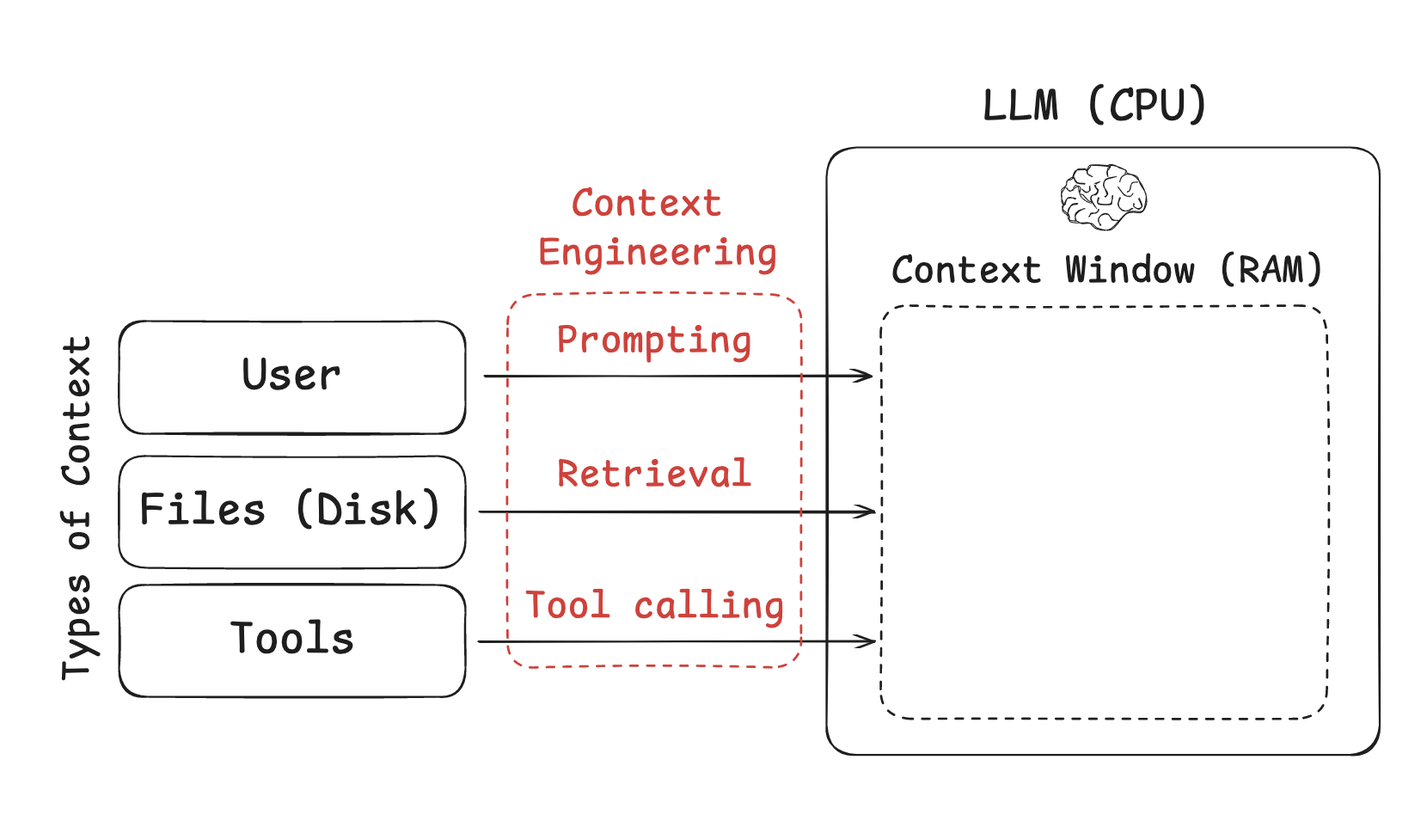
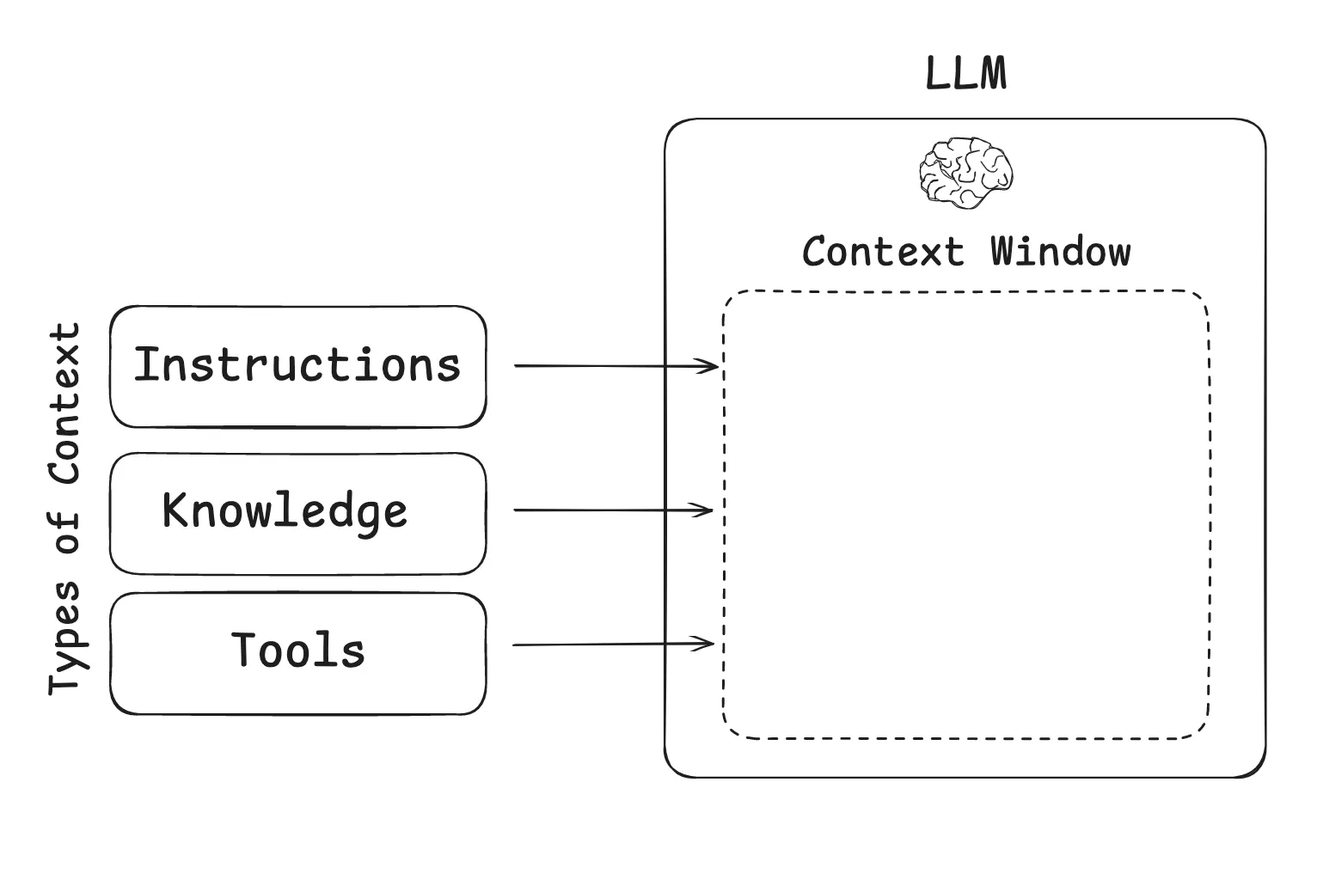
Update

diff --git a/_posts/2025-06-22-context_engineering.md b/_posts/2025-06-22-context_engineering.md
@@ -2,21 +2,29 @@
 layout: post
 comments: false
 title:  "Context Engineering for Agents"
-excerpt: "Patterns for managing the context needed for agents to perform their tasks."
+excerpt: "Patterns for managing agent context."
 date:   2025-06-23 
 ---
 
 [Lance Martin](https://x.com/RLanceMartin)
 
+### TL;DR 
+
+Agents need context (e.g., instructions, external knowledge, tool feedback) to perform tasks. Context engineering is the art and science of filling the context window with just the right information at each step of an agent’s trajectory. In this post, I break down some common strategies — write, select, compress, and isolate — for agent context engineering by reviewing various popular agents and papers.
+
+<figure>
+<img src="/assets/context_eng_overview.png" width="90%">
+<figcaption>
+</figcaption>
+</figure>
+
 ### Context Engineering
 
-As Andrej Karpathy puts it, LLMs are like a [new kind of operating system](https://www.youtube.com/watch?si=-aKY-x57ILAmWTdw&t=620&v=LCEmiRjPEtQ&feature=youtu.be). The LLM is like the CPU and its [context window](https://docs.anthropic.com/en/docs/build-with-claude/context-windows) is like RAM, representing a “working memory” for the model. 
+### 
 
-Context enters an LLM in several ways, including prompts (e.g., user instructions), retrieval (e.g., documents), and tool calls (e.g., APIs).
+As Andrej Karpathy puts it, LLMs are like a [new kind of operating system](https://www.youtube.com/watch?si=-aKY-x57ILAmWTdw&t=620&v=LCEmiRjPEtQ&feature=youtu.be). The LLM is like the CPU and its [context window](https://docs.anthropic.com/en/docs/build-with-claude/context-windows) is like the RAM, serving as the model’s working memory. Just like RAM, the LLM context window has limited [capacity](https://lilianweng.github.io/posts/2023-06-23-agent/) to handle various sources of context. And just as an operating system curates what fits into a CPU’s RAM, “context engineering” plays a similar role. [Karpathy summarizes this well](https://x.com/karpathy/status/1937902205765607626):
 
-Just like RAM, the LLM context window has limited [“communication bandwidth](https://lilianweng.github.io/posts/2023-06-23-agent/)” to handle these various sources of context.
-
-And just as an operating system curates what fits into a CPU’s RAM, we can think about “context engineering” the [art and science](https://x.com/karpathy/status/1937902205765607626) of filling the context window with the information needed [to perform a task](https://x.com/tobi/status/1935533422589399127).
+> [Context engineering is the] ”…delicate art and science of filling the context window with just the right information for the next step.”
 
 <figure>
 <img src="/assets/context_types.png" width="90%">
@@ -24,15 +32,15 @@ And just as an operating system curates what fits into a CPU’s RAM, we can thi
 </figcaption>
 </figure>
 
-### The Rise of Context Engineering
+What are the types of context that we need to manage when building LLM applications? Context engineering is an [umbrella](https://x.com/dexhorthy/status/1933283008863482067) that applies across a few different context types:
 
-Context engineering is an [umbrella discipline](https://x.com/dexhorthy/status/1933283008863482067) that captures a few different focus areas:
+- **Instructions** – prompts, memories, few‑shot examples, tool descriptions, etc
+- **Knowledge** – facts, memories, etc
+- **Tools** – feedback from tool calls
 
-- **Instructions** – prompts (see: [prompt engineering](https://www.promptingguide.ai/)), memories, few‑shot examples
-- **Knowledge** – retrieval or memories to extend the model’s world‑knowledge (see: [RAG](https://github.com/langchain-ai/rag-from-scratch))
-- **Tool feedback** – context flowing in from the environment via tools
+### Context Engineering for Agents
 
-As LLMs get better at tool calling, [agents](https://www.anthropic.com/engineering/building-effective-agents) are now feasible. Agents interleave [LLM and tool calls](https://www.anthropic.com/engineering/building-effective-agents) for [long-running tasks](https://blog.langchain.com/introducing-ambient-agents/), and motivate the need for engineering across all three types of context.
+This year, interest in [agents](https://www.anthropic.com/engineering/building-effective-agents) has grown tremendously as LLMs get better at [reasoning](https://platform.openai.com/docs/guides/reasoning?api-mode=responses) and [tool calling](https://www.anthropic.com/engineering/building-effective-agents). [Agents](https://www.anthropic.com/engineering/building-effective-agents) interleave [LLM invocations and tool calls](https://www.anthropic.com/engineering/building-effective-agents), often for [long-running tasks](https://blog.langchain.com/introducing-ambient-agents/).
 
 <figure>
 <img src="/assets/agent_flow.png" width="90%">
@@ -40,7 +48,14 @@ As LLMs get better at tool calling, [agents](https://www.anthropic.com/engineeri
 </figcaption>
 </figure>
 
-[Cognition](https://cognition.ai/blog/dont-build-multi-agents) called out the importance of context engineering when building agents:
+However, long-running tasks and accumulating feedback from tool calls mean that agents often utilize a large number of tokens. This can cause numerous problems: it can [exceed the size of the context window](https://cognition.ai/blog/kevin-32b), balloon cost / latency, or degrade agent performance. Drew Breunig [nicely outlined](https://www.dbreunig.com/2025/06/22/how-contexts-fail-and-how-to-fix-them.html) a number of specific ways that longer context can cause perform problems, including: 
+
+- [Context Poisoning: When a hallucination makes it into the context](https://www.dbreunig.com/2025/06/22/how-contexts-fail-and-how-to-fix-them.html#context-poisoning)
+- [Context Distraction: When the context overwhelms the training](https://www.dbreunig.com/2025/06/22/how-contexts-fail-and-how-to-fix-them.html#context-distraction)
+- [Context Confusion: When superfluous context influences the response](https://www.dbreunig.com/2025/06/22/how-contexts-fail-and-how-to-fix-them.html#context-confusion)
+- [Context Clash: When parts of the context disagree](https://www.dbreunig.com/2025/06/22/how-contexts-fail-and-how-to-fix-them.html#context-clash)
+
+With this in mind, [Cognition](https://cognition.ai/blog/dont-build-multi-agents) called out the importance of context engineering when building agents:
 
 > *“Context engineering” … is effectively the #1 job of engineers building AI agents.*
 > 
@@ -50,23 +65,7 @@ As LLMs get better at tool calling, [agents](https://www.anthropic.com/engineeri
 > *Agents often engage in conversations spanning hundreds of turns, requiring careful context management strategies.*
 > 
 
-This post is aims to break down some common strategies — **compress**, **persist**, and **isolate —** for agent context engineering.
-
-### Context Engineering for Agents
-
-The agent context is populated with feedback from tool calls, which can [exceed the size of the context window](https://cognition.ai/blog/kevin-32b) and balloon the cost / latency. 
-
-<figure>
-<img src="/assets/tool_context.png" width="90%">
-<figcaption>
-</figcaption>
-</figure>
-
-I’ve been bitten by this many times. One incarnation of a [deep research agent](https://github.com/langchain-ai/open_deep_research) that I built used token-heavy search API tool calls, resulting in > 500k token and several dollars per run! 
-
-Long context may also degrade agent performance. [Google](https://research.google/blog/chain-of-agents-large-language-models-collaborating-on-long-context-tasks/#:~:text=example%2C%20Gemini%20is%20able%20to,architecture%20that%20underlies%20most%20LLMs) and [Percy Liang’s group](https://arxiv.org/abs/2307.03172) have described different types of “[context degradation syndrome](https://jameshoward.us/2024/11/26/context-degradation-syndrome-when-large-language-models-lose-the-plot)” since a long context can limit an LLMs ability to recall facts or follow instructions.  
-
-There are many ways to combat this problem, which I group into 3 buckets and describe below: compressing, persisting, and isolating context. 
+In this post, I break down some common strategies — **write, select, compress, and isolate —** for agent context engineering by reviewing various popular agents and papers.
 
 <figure>
 <img src="/assets/context_eng_overview.png" width="90%">
@@ -74,17 +73,71 @@ There are many ways to combat this problem, which I group into 3 buckets and des
 </figcaption>
 </figure>
 
+### Write Context
+
+*Writing context means saving it outside the context window to help an agent perform a task.*
+
+**Scratchpads**
+
+When humans solve tasks, we take notes and remember things for future, related tasks. Agents are also gaining these capabilities! Note-taking via a “[scratchpad](https://www.anthropic.com/engineering/claude-think-tool)” is one approach to persist information while an agent is performing a task. The central idea is to save information outside of the context window so that it’s available to the agent on-demand. [Anthropic’s multi-agent researcher](https://www.anthropic.com/engineering/built-multi-agent-research-system) illustrates a clear example of this: 
+
+> *The LeadResearcher begins by thinking through the approach and saving its plan to Memory to persist the context, since if the context window exceeds 200,000 tokens it will be truncated and it is important to retain the plan.*
+> 
+
+It’s worth noting that this scratchpad can be implemented in a few different ways. It could be a [tool call](https://www.anthropic.com/engineering/claude-think-tool) that [writes to a file](https://github.com/modelcontextprotocol/servers/tree/main/src/filesystem). It could also just be a field in a runtime [state object](https://langchain-ai.github.io/langgraph/concepts/low_level/#state) that persists during the session. In either case, the intuition is clear: scratchpads let agents save useful information during a session to help them accomplish tasks.
+
+**Memories**
+
+Scratchpads help agents solve a task within a given session, but sometimes agents benefit from remembering things across *many* sessions! [Reflexion](https://arxiv.org/abs/2303.11366) introduced the idea of reflection following each agent turn and re-using these self-generated hints. [Generative Agents](https://ar5iv.labs.arxiv.org/html/2304.03442) created memories synthesized periodically from collections of past agent feedback.
+
+These concepts made their way into popular products like [ChatGPT](https://help.openai.com/en/articles/8590148-memory-faq), [Cursor](https://forum.cursor.com/t/0-51-memories-feature/98509), and [Windsurf](https://docs.windsurf.com/windsurf/cascade/memories), which all have mechanisms to auto-generate long-term memories based on user-agent interactions.
+
+<figure>
+<img src="/assets/llm_write_memory.png" width="90%">
+<figcaption>
+</figcaption>
+</figure>
+
+### Select Context
+
+*Selecting context means pulling it into the context window to help an agent perform a task.*
+
+**Scratchpad**
+
+The mechanism for selecting context from a scratchpad depends upon how the scratchpad is implemented. If it’s a [tool](https://www.anthropic.com/engineering/claude-think-tool), then an agent can simply read it by making a tool call. If it’s part of the agent’s runtime state, then the developer can choose what parts of state to expose to an agent each step. This provides a fine-grained level of control for exposing context to an agent.
+
+**Memories**
+
+If agents have the ability to save memories, they also need the ability to select memories relevant to the task they are performing. This can be useful for a few reasons. Agents might select few-shot examples ([episodic](https://langchain-ai.github.io/langgraph/concepts/memory/#memory-types) [memories](https://arxiv.org/pdf/2309.02427)) for examples of desired behavior, instructions ([procedural](https://langchain-ai.github.io/langgraph/concepts/memory/#memory-types) [memories](https://arxiv.org/pdf/2309.02427)) to steer behavior, or facts ([semantic](https://langchain-ai.github.io/langgraph/concepts/memory/#memory-types) [memories](https://arxiv.org/pdf/2309.02427)) give the agent task-relevant context.
+
+<figure>
+<img src="/assets/memory_types.png" width="90%">
+<figcaption>
+</figcaption>
+</figure>
+
+One challenge is ensure that relevant memories are selected. Some popular agents simply use a narrow set of files to store memories. For example, many code agent use “rules” files to save instructions (”procedural” memories) or, in some cases, examples (”episodic” memories). Claude Code uses [`CLAUDE.md`](http://CLAUDE.md). [Cursor](https://docs.cursor.com/context/rules) and [Windsurf](https://windsurf.com/editor/directory) use rules files. These are always pulled into context.
+
+But, if an agent is storing a larger [collection](https://langchain-ai.github.io/langgraph/concepts/memory/#collection) of facts and / or relationships ([semantic](https://langchain-ai.github.io/langgraph/concepts/memory/#memory-types) memories), selection is harder. [ChatGPT](https://help.openai.com/en/articles/8590148-memory-faq) is a good example of this. At the AIEngineer World’s Fair, [Simon Willison shared](https://simonwillison.net/2025/Jun/6/six-months-in-llms/) a good example of memory selection gone wrong: ChatGPT fetched his location and injected it into an image that he requested. This type of erroneous memory retrieval can make users feel like the context winder “*no longer belongs to them*”! Use of embeddings and / or [knowledge](https://arxiv.org/html/2501.13956v1#:~:text=In%20Zep%2C%20memory%20is%20powered,subgraph%2C%20and%20a%20community%20subgraph) [graphs](https://neo4j.com/blog/developer/graphiti-knowledge-graph-memory/#:~:text=changes%20since%20updates%20can%20trigger,and%20holistic%20memory%20for%20agentic) for indexing of memories have been used to assist with selection.
+
+**Tools**
+
+Agents use tools, but can become overloaded if they are provided with too many. This is often because the tool descriptions can overlap, causing model confusion about which tool to use. One approach is to apply RAG to tool descriptions in order to fetch the most relevant tools for a task based upon semantic similarity, an idea that Drew Breunig calls “[tool loadout](https://www.dbreunig.com/2025/06/26/how-to-fix-your-context.html).” Some [recent papers](https://arxiv.org/abs/2505.03275) have shown that this improve tool selection accuracy by 3-fold.
+
+**Knowledge**
+
+[RAG](https://github.com/langchain-ai/rag-from-scratch) (retrieval augmented generation) is an extremely rich topic. Code agents are some of the best examples of agentic RAG in large-scale production. [In practice, RAG is can be a central context engineering challenge](https://x.com/_mohansolo/status/1899630246862966837). Varun from Windsurf captures some of these challenges well:
+
+> *Indexing code ≠ context retrieval … [We are doing indexing & embedding search … [with] AST parsing code and chunking along semantically meaningful boundaries … embedding search becomes unreliable as a retrieval heuristic as the size of the codebase grows … we must rely on a combination of techniques like grep/file search, knowledge graph based retrieval, and … a re-ranking step where [context] is ranked in order of relevance.*
+>
+
 ### Compressing Context
 
-Compressing context involves keeping only the highest-value tokens at each turn.
+*Compressing context involves retaining only the tokens required to perform a task.*
 
 **Context Summarization**
 
-Agent interactions can span [hundreds of turns](https://www.anthropic.com/engineering/built-multi-agent-research-system) and may have token-heavy tool calls. Context summarization is one common way to manage this. 
-
-If you’ve used Claude Code, you’ve seen this in action. Claude Code runs “[auto-compact](https://docs.anthropic.com/en/docs/claude-code/costs)” after you exceed 95% of the context window.
-
-Summarization can be used in different places, such as the [full agent trajectory](https://python.langchain.com/api_reference/langchain/memory/langchain.memory.summary.ConversationSummaryMemory.html) with methods such as [recursive](https://arxiv.org/pdf/2308.15022#:~:text=the%20retrieved%20utterances%20capture%20the,based%203) or [hierarchical](https://alignment.anthropic.com/2025/summarization-for-monitoring/#:~:text=We%20addressed%20these%20issues%20by,of%20our%20computer%20use%20capability) summarization.
+Agent interactions can span [hundreds of turns](https://www.anthropic.com/engineering/built-multi-agent-research-system) and use token-heavy tool calls. Summarization is one common way to manage these challenges. If you’ve used Claude Code, you’ve seen this in action. Claude Code runs “[auto-compact](https://docs.anthropic.com/en/docs/claude-code/costs)” after you exceed 95% of the context window and it will summarize the full trajectory of user-agent interactions. This type of compression across an [agent trajectory](https://langchain-ai.github.io/langgraph/concepts/memory/#manage-short-term-memory) can use various strategies such as [recursive](https://arxiv.org/pdf/2308.15022#:~:text=the%20retrieved%20utterances%20capture%20the,based%203) or [hierarchical](https://alignment.anthropic.com/2025/summarization-for-monitoring/#:~:text=We%20addressed%20these%20issues%20by,of%20our%20computer%20use%20capability) summarization.
 
 <figure>
 <img src="/assets/context_curation.png" width="90%">
@@ -92,63 +145,19 @@ Summarization can be used in different places, such as the [full agent trajector
 </figcaption>
 </figure>
 
-It's also common to [summarize](https://github.com/langchain-ai/open_deep_research/blob/e5a5160a398a3699857d00d8569cb7fd0ac48a4f/src/open_deep_research/utils.py#L1407)  tool call feedback (e.g., a token-heavy search tool) or specific steps (e.g., [Anthropic’s multi-agent researcher](https://www.anthropic.com/engineering/built-multi-agent-research-system) applies summarization on completed work phases).
+It can also be useful to [add summarization](https://github.com/langchain-ai/open_deep_research/blob/e5a5160a398a3699857d00d8569cb7fd0ac48a4f/src/open_deep_research/utils.py#L1407) at points in an agent’s trajectory. For example, it can be used to post-process certain tool calls (e.g., token-heavy search tools). As a second example, [Cognition](https://cognition.ai/blog/dont-build-multi-agents#a-theory-of-building-long-running-agents) mentioned summarization at agent-agent boundaries to knowledge hand-off. They also the challenge if specific events or decisions to be captured. They use a fine-tuned model for this in Devin, which underscores how much work can go into this step.
 
-[Cognition](https://cognition.ai/blog/dont-build-multi-agents#a-theory-of-building-long-running-agents) called out that summarization can be tricky if specific events or decisions from agent trajectories are needed. They use a fine-tuned model for this in Devin, which underscores how much work can go into refining this step. 
+**Context Trimming**
 
-### Persisting Context
-
-Persisting context involves systems to store, save, and retrieve context over time. 
-
-**Storing context**
-
-Files are a simple way to store context. Many popular agents use this: Claude Code uses [`CLAUDE.md`](http://CLAUDE.md). [Cursor](https://docs.cursor.com/context/rules) and [Windsurf](https://windsurf.com/editor/directory) use rules files, and some plugins (e.g., [Cursor Memory Bank](https://forum.cursor.com/t/managing-chat-context-in-cursor-ide-for-large-repositories-what-s-working-for-you/76391/2)) / [MCP servers](https://github.com/modelcontextprotocol/servers/tree/main/src/filesystem) manage collections of memory files.
-
-Some agents need to store information that can’t be easily be captured in a few files. For example, we may want to store large [collections](https://langchain-ai.github.io/langgraph/concepts/memory/#collection) of facts and / or relationships. A few tools emerged to support this and showcase some common patterns. 
-
-[Letta](https://docs.letta.com/concepts/memgpt), [Mem0](https://mem0.ai/research), and [LangGraph](https://langchain-ai.github.io/langgraph/concepts/memory/#long-term-memory) / [Mem](https://langchain-ai.github.io/langmem/) store embedded documents. [Zep](https://arxiv.org/html/2501.13956v1#:~:text=In%20Zep%2C%20memory%20is%20powered,subgraph%2C%20and%20a%20community%20subgraph) and [Neo4J](https://neo4j.com/blog/developer/graphiti-knowledge-graph-memory/#:~:text=changes%20since%20updates%20can%20trigger,and%20holistic%20memory%20for%20agentic) use knowledge graphs for continuous / temporal indexing of facts or relationships.
-
-**Saving context**
-
-Claude Code entrusts the user to create / update memories (e.g., the `#` shortcut). But there are many cases where we want agents to autonomously create / update memories. 
-
-The [Reflexion](https://arxiv.org/abs/2303.11366) paper introduced the idea of reflection following each agent turn and re-using these self-generated hints. [Generative Agents](https://ar5iv.labs.arxiv.org/html/2304.03442) created memories as summaries synthesized from collections of past feedback.
-
-These concepts made their way into popular products like [ChatGPT,](https://help.openai.com/en/articles/8590148-memory-faq) [Cursor](https://docs.cursor.com/context/rules#memories), and [Windsurf](https://docs.windsurf.com/windsurf/cascade/memories), which all have mechanisms to auto-generate memories based on user-agent interactions. 
-
-<figure>
-<img src="/assets/email_agent.png" width="90%">
-<figcaption>
-</figcaption>
-</figure>
-
-Memory creation can also be done at specific points in an agent's trajectory. One pattern I like: update memories based upon user feedback.
-
-For example, human-in-the-loop review of tool calls is a good way to build confidence in your agent. But if you pair this with memory updating, then the agent can learn from your feedback over time. My [email assistant](https://github.com/langchain-ai/agents-from-scratch) does this with file based memory.
-
-**Retrieving context**
-
-The simplest approach is just to pull all memories into the agent’s context window. For example, Claude Code just reads all [`CLAUDE.md`](http://CLAUDE.md) files into context at the start of each session. In my [email assistant](https://github.com/langchain-ai/agents-from-scratch), I always load a set memories that provide email triage and response instructions into context.
-
-But, mechanisms to fetch select memories are important if the collection is large. The store will help determine the approach (e.g., embedding-based search or graph retrieval). 
-
-[In practice this is a deep topic](https://x.com/_mohansolo/status/1899630246862966837). Retrieval can be tricky. For example, [Generative Agents](https://ar5iv.labs.arxiv.org/html/2304.03442) scored memories on similarity, recency, and importance. [Simon Willison shared](https://simonwillison.net/2025/Jun/6/six-months-in-llms/) an example of memory retrieval gone wrong. GPT-4o injected location into an image based upon his memories, which was not desired. Poor memory retrieval can make users feel like the context window "doesn't belong to them"!
+Whereas summarization typically using an LLM to distill the most relevant pieces of context, trimming can often filter or, as Drew Breunig points out, “[prune](https://www.dbreunig.com/2025/06/26/how-to-fix-your-context.html)” context. This can use heuristics like removing [older messages](https://python.langchain.com/docs/how_to/trim_messages/) from a message list. Drew’s post also mentions [Provence](https://arxiv.org/abs/2501.16214), an fine-tuned LLM utility that performs context pruning for Question-Answering.
 
 ### Isolating Context
 
-Isolating context involves approaches to partition it across agents or environments.   
-
-**Context Schema**
-
-Oftentimes, [messages](https://python.langchain.com/docs/concepts/messages/) are used to structure agent context. Tool feedback is appended to a message list. The full list is then passed to the LLM at each agent turn. 
-
-The problem is that a list can get bloated with token-heavy tool calls. A structured runtime state - defined via a [schema](https://langchain-ai.github.io/langgraph/concepts/low_level/#schema) (e.g., a [Pydantic](https://docs.pydantic.dev/latest/concepts/models/) model) - can often be more effective. 
-
-Then, you can better control what the LLM sees at each agent turn. For example, in one version of a deep research agent, my schema both `messages` and [`sections`](https://github.com/langchain-ai/open_deep_research/blob/e5a5160a398a3699857d00d8569cb7fd0ac48a4f/src/open_deep_research/multi_agent.py#L428). `messages` is passed to the LLM at each turn, but I isolate token-heavy sections in `sections` and fetch them selectively.  
+*Isolating context involves splitting it up to help an agent perform a task.*
 
 **Multi-agent**
 
-One popular approach is to split context across sub-agents. A motivation for the OpenAI [Swarm](https://github.com/openai/swarm) library was “[separation of concerns](https://openai.github.io/openai-agents-python/ref/agent/)”, where a team of agents can handle sub-tasks and each agent has its own instructions and context window. 
+One of the most popular and intuitive ways to isolate context is to split it across sub-agents. A motivation for the OpenAI [Swarm](https://github.com/openai/swarm) library was “[separation of concerns](https://openai.github.io/openai-agents-python/ref/agent/)”, where a team of agents can handle sub-tasks. Each agent has a specific set of tools, instructions, and its own context window.
 
 <figure>
 <img src="/assets/multi_agent.png" width="90%">
@@ -156,20 +165,16 @@ One popular approach is to split context across sub-agents. A motivation for the
 </figcaption>
 </figure>
 
-Anthropic’s [multi-agent researcher](https://www.anthropic.com/engineering/built-multi-agent-research-system) makes a clear case for this: multi-agent with isolated context outperformed single-agent by 90.2%, largely due to token usage. As the blog said: 
+Anthropic’s [multi-agent researcher](https://www.anthropic.com/engineering/built-multi-agent-research-system) makes a clear case for the benefit of this: many agents with isolated contexts outperformed single-agent by 90.2%, largely because each subagent context window can be allocated to a more narrow sub-task. As the blog said: 
 
 > *[Subagents operate] in parallel with their own context windows, exploring different aspects of the question simultaneously.*
 > 
 
-The problems with multi-agent include token use (e.g., [15× more tokens](https://www.anthropic.com/engineering/built-multi-agent-research-system) than chat), the need for careful [prompting](https://www.anthropic.com/engineering/built-multi-agent-research-system) and [context](https://cognition.ai/blog/dont-build-multi-agents) for sub-agent planning, and sub-agent coordination. Cognition argues [against](https://cognition.ai/blog/dont-build-multi-agents) multi-agent for these reasons.
-
-I’ve also been bitten by this: one iteration of my deep research agent had a team of agents write sections of the report. Sometimes the final report was disjointed because the agents did not communicate with one another while writing.
-
-One way to reconcile this is to ensure the task is parallelizable. A subtle point is that Anthropic’s deep research multi-agent system applied parallelization to *research.* This is easier than *writing*, which requires tight cohesion across the sections of a report to achieve strong overall flow.
+Of course, the challenge with multi-agent include token use (e.g., [15× more tokens](https://www.anthropic.com/engineering/built-multi-agent-research-system) than chat), the need for careful [prompt engineering](https://www.anthropic.com/engineering/built-multi-agent-research-system) to plan sub-agent work, and coordination of sub-agents. 
 
 **Context Isolation with Environments**
 
-HuggingFace’s [deep researcher](https://huggingface.co/blog/open-deep-research#:~:text=From%20building%20,it%20can%20still%20use%20it) is another good example of context isolation. Most agents use [tool calling APIs](https://docs.anthropic.com/en/docs/agents-and-tools/tool-use/overview), which return JSON objects (arguments) that can be passed to tools (e.g., a search API) to get tool feedback (e.g., search results).
+HuggingFace’s [deep researcher](https://huggingface.co/blog/open-deep-research#:~:text=From%20building%20,it%20can%20still%20use%20it) shows another interesting example of context isolation. Most agents use [tool calling APIs](https://docs.anthropic.com/en/docs/agents-and-tools/tool-use/overview), which return JSON objects (tool arguments) that can be passed to tools (e.g., a search API) to get tool feedback (e.g., search results). HuggingFace uses a [CodeAgent](https://huggingface.co/papers/2402.01030), which outputs code to invoke tools. The code then runs in a [sandbox](https://e2b.dev/). Selected context (e.g., return values) from code execution is then passed back to the LLM.
 
 <figure>
 <img src="/assets/isolation.png" width="90%">
@@ -177,21 +182,20 @@ HuggingFace’s [deep researcher](https://huggingface.co/blog/open-deep-research
 </figcaption>
 </figure>
 
-HuggingFace uses a [CodeAgent](https://huggingface.co/papers/2402.01030), which outputs code to execute tools. The code runs in a [sandbox](https://e2b.dev/) and select tool feedback from code execution is passed back to the LLM. 
+This allows context to be isolated in the environment, outside of the LLM context window. Hugging Face noted that this is a great way to isolate token-heavy objects from the LLM: 
 
-> *[Code Agents allow for] a better handling of state … Need to store this image / audio / other for later use? No problem, just assign it as a variable in your state and you [use it later].*
+> *[Code Agents allow for] a better handling of state … Need to store this image / audio / other for later use? No problem, just assign it as a variable [in your state and you [use it later]](https://deepwiki.com/search/i-am-wondering-if-state-that-i_0e153539-282a-437c-b2b0-d2d68e51b873).*
 > 
 
-The sandbox stores objects generated during execution (e.g., images), isolating them from the LLM context window, but the agent can still reference these objects with variables later.
+**State**
 
-### Lessons
+It’s worth calling out that an agent’s runtime [state object](https://langchain-ai.github.io/langgraph/concepts/low_level/#state) can also be a great way to isolate context. This can serve the same purpose as sandboxing. A state object can be designed with a [schema](https://langchain-ai.github.io/langgraph/concepts/low_level/#schema) (e.g., a [Pydantic](https://docs.pydantic.dev/latest/concepts/models/) model) that has various fields that context can be written to. One field of the schema (e.g., `messages`) can be exposed to the LLM at each turn of the agent, but the schema can isolate information in other fields for more selective use.
 
-General principles for building agents are still in their infancy. Models are changing quickly and the [Bitter Lesson](http://www.incompleteideas.net/IncIdeas/BitterLesson.html) warns us to avoid context engineering that will become irrelevant as LLMs improve. 
+### Conclusion
 
-For example, [continual learning](https://www.dwarkesh.com/p/timelines-june-2025) may let LLMs to [learn from feedback](https://www.wired.com/story/this-ai-model-never-stops-learning/?utm_source=chatgpt.com), limiting some of the need for external memory. With this and the patterns above in mind, here are some general lessons ordered roughly by the amount of effort required to use them.
+There are a few common patterns for context engineering seen across many popular agents today:
 
-- **Instrument first:** Always [look at your data](https://hamel.dev/blog/posts/evals/). Ensure you have a way to track tokens when building agents. This has allowed me to catch various cases of excessive token-usage and isolate token-heavy tool calls. It sets the stage for any context engineering efforts.
-- **Think about your agent state:** Anthropic called out the idea of “[thinking like your agent](https://www.youtube.com/watch?v=D7_ipDqhtwk).” One way to do this is to think through the information your agent needs to collect and use at runtime. A well defined state schema is an easy way to better control what is exposed to the LLM during the agent's trajectory. I use this with nearly every agent I build, rather than just saving all context to a message list. [Anthropic] also called this out in their researcher where they save the research plan for future use.
-- **Compress at tool boundaries:** Tools boundaries are a natural place to add compression, if needed. The output of token-heavy tool calls can be summarized, for example, using a small LLM with straightforward prompting. This lets you quickly limit runaway context growth at the source without the need for compression over the full agent trajectory.
-- **Start simple with memory**: Memory can be a powerful way to personalize an agent. But, it can be challenging to get right. I [often use](https://github.com/langchain-ai/agents-from-scratch) simple, file-based memory that tracks a narrow set of agent preferences that I want to save and improve over time. I load these preferences into context every time my agent runs. Based upon human-in-the-loop feedback, I use an LLM to update these preferences (see [here](https://github.com/langchain-ai/agents-from-scratch)). This is a simple but effective way to use memory, but obviously the complexity of memory can be increased significantly if needed.
-- **Consider multi-agent for easily parallelizable tasks**: Agent-agent communication is still early, and it's hard to coordinate multi-agent teams. But that doesn’t mean you should abandon the idea of multi-agent. Instead, consider multi-agent in cases where the problem can be easily parallelized and tight coordination between sub-agents is not strictly required, as shown in the case of [Anthropic's multi-agent researcher](https://www.anthropic.com/engineering/built-multi-agent-research-system).
+- *Writing context means saving it outside the context window to help an agent perform a task.*
+- *Selecting context means pulling it into the context window to help an agent perform a task.*
+- *Compressing context involves retaining only the tokens required to perform a task.*
+- *Isolating context involves splitting it up to help an agent perform a task.*
